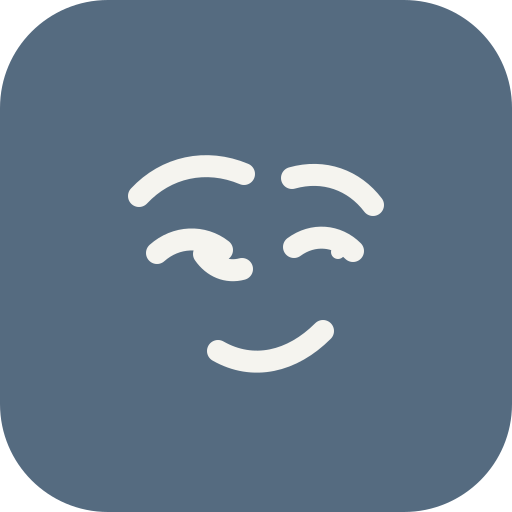
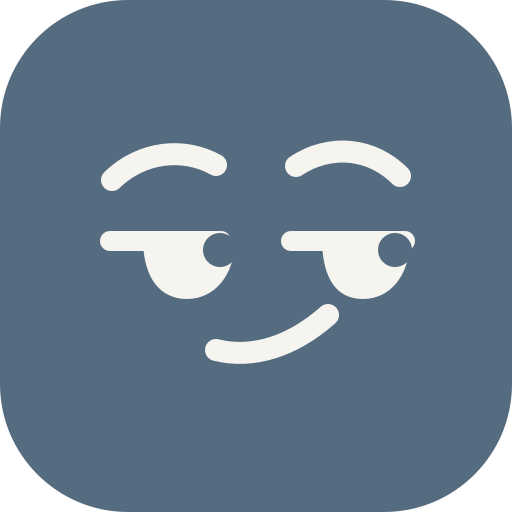
fix: use canonical Emojizzle knowing mark

diff --git a/app/components/KnowingMark.tsx b/app/components/KnowingMark.tsx
@@ -1,18 +1,30 @@
-type KnowingMarkProps = { size?: number; tone?: "default" | "inverse"; className?: string };
+/* eslint-disable @next/next/no-img-element -- static exported public SVG asset */
 
-export function KnowingMark({ size = 32, tone = "default", className = "" }: KnowingMarkProps) {
+type KnowingMarkProps = {
+  size?: number;
+  tone?: "default" | "inverse";
+  className?: string;
+  decorative?: boolean;
+};
+
+export function KnowingMark({
+  size = 32,
+  tone = "default",
+  className = "",
+  decorative = true,
+}: KnowingMarkProps) {
+  const src = tone === "inverse"
+    ? "/brand/emojizzle-mark-inverse.svg"
+    : "/brand/emojizzle-mark.svg";
+
   return (
-    <svg className={`knowing-mark knowing-mark--${tone} ${className}`.trim()} width={size} height={size} viewBox="0 0 512 512" role="img" aria-label="Emojizzle" xmlns="http://www.w3.org/2000/svg">
-      <rect x="40" y="40" width="432" height="432" rx="108" fill="currentColor" />
-      <g fill="none" stroke="var(--mark-feature)" strokeWidth="22" strokeLinecap="round" strokeLinejoin="round">
-        <path d="M139 196c27-29 67-38 105-22" />
-        <path d="M292 178c32-9 62 2 81 27" />
-        <path d="M157 253c19-17 46-18 65-3" />
-        <path d="M294 247c19-14 43-12 59 4" />
-        <path d="M218 351c35 20 74 11 105-20" />
-      </g>
-      <path d="M204 254c9 13 23 19 38 15" fill="none" stroke="var(--mark-feature)" strokeWidth="18" strokeLinecap="round" />
-      <circle cx="338" cy="252" r="7" fill="var(--mark-feature)" />
-    </svg>
+    <img
+      src={src}
+      width={size}
+      height={size}
+      className={`knowing-mark ${className}`.trim()}
+      alt={decorative ? "" : "Emojizzle"}
+      aria-hidden={decorative ? "true" : undefined}
+    />
   );
 }

diff --git a/app/globals.css b/app/globals.css
@@ -148,8 +148,7 @@ input, textarea, select { font-size: 16px; }
 
 .brand-mark { display: none; }
 .brand-wordmark { display: inline-block; font-family: var(--font-brand); font-size: inherit; font-weight: 800; letter-spacing: -.065em; line-height: .92; color: var(--brand-graphite); }
-.knowing-mark { --mark-feature: var(--brand-ivory); display: block; color: var(--brand-slate); flex: 0 0 auto; }
-.knowing-mark--inverse { --mark-feature: var(--brand-slate); color: var(--brand-ivory); }
+.knowing-mark { display: block; flex: 0 0 auto; }
 
 .day-pill, .category-pill {
   display: inline-flex;
@@ -405,6 +404,8 @@ h1 {
 .reveal-confirm button:first-of-type { border-color: var(--brand-slate); color: var(--brand-slate); }
 
 .result-card { padding: 39px 22px 25px; }
+.result-brand-mark { display: flex; justify-content: center; margin-bottom: 10px; }
+.result-brand-mark .knowing-mark { display: block; }
 .result-card.solved { border-top: 5px solid var(--brand-gold); }
 .result-card.revealed { border-top: 5px solid #aab6c1; }
 .result-card.solved { border-top-color: var(--brand-gold); }

diff --git a/app/DailyPuzzle.tsx b/app/DailyPuzzle.tsx
@@ -574,7 +574,8 @@ export function DailyPuzzle({
           <div className="confetti" aria-hidden="true">
             <i /><i /><i /><i /><i /><i />
           </div>
-          <div className="result-kicker"><KnowingMark size={44} />{play.outcome === "solved" ? "Aha—you got it!" : "Here’s the answer"}</div>
+          <div className="result-brand-mark" aria-hidden="true"><KnowingMark size={48} /></div>
+          <div className="result-kicker">{play.outcome === "solved" ? "Aha—you got it!" : "Here’s the answer"}</div>
           <div className="result-emoji" aria-hidden="true">{puzzle.emoji}</div>
           <div className="category-pill">{play.resolution?.category}</div>
           <h1 id="result-title">{play.resolution?.answer}</h1>
